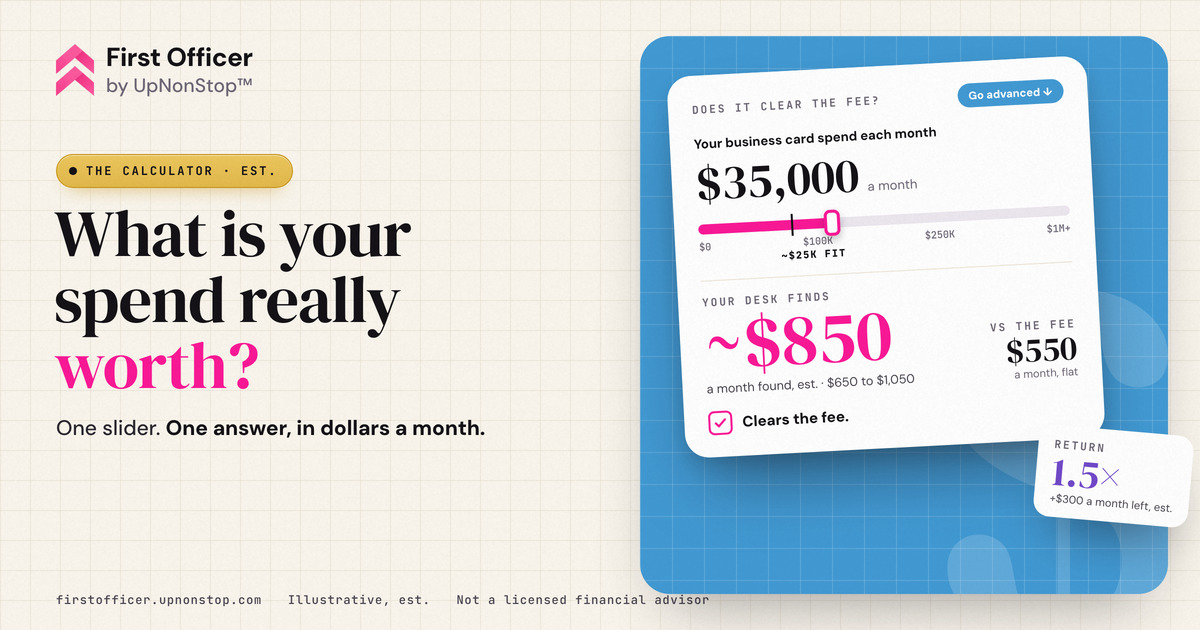
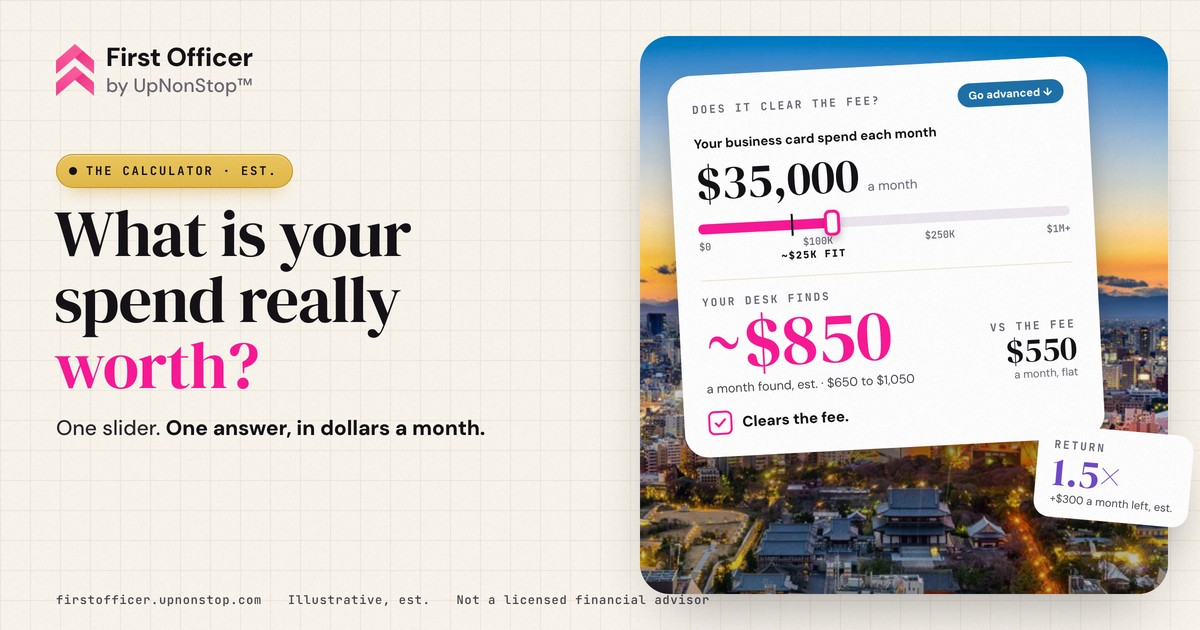
Calculator link preview: the slider card over Tokyo at dusk, not a flat blue block
Ohad: the blue background in the calculator preview looked bad. The card's
right side was a flat #429AD4 field with a white grid and a giant "$". It
is now the site's own Tokyo-at-dusk photo (img/tokyo.jpg) in the same
rounded frame, the way the Product card sits on its photo, with a soft
shade at the foot. The calculator card, the Return chip and every word
stay as they were; "Go advanced" uses the site's current button blue
(#1E70AA). Edited on the Link Preview canvas and exported at 1200x630
(158 KB). calculator.html points at og/calculator.jpg?v=2 so platforms
fetch the new image instead of a cached one.

Claude-Session: https://claude.ai/code/session_011MWAFeWdP6UkK35f7g2iDX

diff --git a/calculator.html b/calculator.html
@@ -13,7 +13,7 @@
 <link rel="stylesheet" href="recovered/modes-pages31.css">
 <link rel="stylesheet" href="recovered/calc.css">
 <link rel="stylesheet" href="assets/fo-pages2.css"><noscript><style>.reveal{opacity:1!important;transform:none!important}</style></noscript><noscript><style id="fo-static-ns">.fo-static{position:static!important;width:auto!important;height:auto!important;margin:0!important;overflow:visible!important;clip:auto!important;clip-path:none!important;white-space:normal!important;display:block!important;padding:14px 20px!important;font:500 15px/1.6 "DM Sans",system-ui,sans-serif;color:#141216}.fo-static a{display:inline-block;margin:0 16px 6px 0;color:#141216;font-weight:600}</style></noscript><link rel="stylesheet" href="assets/fo-rules.css">
-<link rel="stylesheet" href="assets/fo-polish.css"><!-- fo-ld --><script type="application/ld+json">{"@context":"https://schema.org","@type":"WebPage","name":"Calculator · What is your spend worth?","url":"https://firstofficer.upnonstop.com/calculator.html","isPartOf":{"@type":"WebSite","name":"First Officer by UpNonStop","url":"https://firstofficer.upnonstop.com/"},"description":"One slider for your monthly business card spend, and what the desk could find against $550 a month, est. Go advanced to set your trade and spend line by line."}</script><script type="application/ld+json">{"@context":"https://schema.org","@type":"BreadcrumbList","itemListElement":[{"@type":"ListItem","position":1,"name":"Home","item":"https://firstofficer.upnonstop.com/"},{"@type":"ListItem","position":2,"name":"Calculator · What is your spend worth?","item":"https://firstofficer.upnonstop.com/calculator.html"}]}</script><!-- /fo-ld --><!-- fo-meta --><link rel="canonical" href="https://firstofficer.upnonstop.com/calculator.html"><meta property="og:type" content="website"><meta property="og:site_name" content="First Officer by UpNonStop"><meta property="og:title" content="Calculator · What is your spend worth? · First Officer"><meta property="og:description" content="One slider for your monthly business card spend, and what the desk could find against $550 a month, est. Go advanced to set your trade and spend line by line."><meta property="og:url" content="https://firstofficer.upnonstop.com/calculator.html"><meta property="og:image" content="https://firstofficer.upnonstop.com/og/calculator.jpg"><meta property="og:image:width" content="1200"><meta property="og:image:height" content="630"><meta property="og:image:type" content="image/jpeg"><meta property="og:image:alt" content="What is your spend really worth? A monthly spend slider and the amount the desk could find against the $550 fee, est."><meta name="twitter:card" content="summary_large_image"><meta name="twitter:title" content="Calculator · What is your spend worth? · First Officer"><meta name="twitter:description" content="One slider for your monthly business card spend, and what the desk could find against $550 a month, est. Go advanced to set your trade and spend line by line."><meta name="twitter:image" content="https://firstofficer.upnonstop.com/og/calculator.jpg"><meta name="twitter:image:alt" content="What is your spend really worth? A monthly spend slider and the amount the desk could find against the $550 fee, est."><!-- /fo-meta --></head>
+<link rel="stylesheet" href="assets/fo-polish.css"><!-- fo-ld --><script type="application/ld+json">{"@context":"https://schema.org","@type":"WebPage","name":"Calculator · What is your spend worth?","url":"https://firstofficer.upnonstop.com/calculator.html","isPartOf":{"@type":"WebSite","name":"First Officer by UpNonStop","url":"https://firstofficer.upnonstop.com/"},"description":"One slider for your monthly business card spend, and what the desk could find against $550 a month, est. Go advanced to set your trade and spend line by line."}</script><script type="application/ld+json">{"@context":"https://schema.org","@type":"BreadcrumbList","itemListElement":[{"@type":"ListItem","position":1,"name":"Home","item":"https://firstofficer.upnonstop.com/"},{"@type":"ListItem","position":2,"name":"Calculator · What is your spend worth?","item":"https://firstofficer.upnonstop.com/calculator.html"}]}</script><!-- /fo-ld --><!-- fo-meta --><link rel="canonical" href="https://firstofficer.upnonstop.com/calculator.html"><meta property="og:type" content="website"><meta property="og:site_name" content="First Officer by UpNonStop"><meta property="og:title" content="Calculator · What is your spend worth? · First Officer"><meta property="og:description" content="One slider for your monthly business card spend, and what the desk could find against $550 a month, est. Go advanced to set your trade and spend line by line."><meta property="og:url" content="https://firstofficer.upnonstop.com/calculator.html"><meta property="og:image" content="https://firstofficer.upnonstop.com/og/calculator.jpg?v=2"><meta property="og:image:width" content="1200"><meta property="og:image:height" content="630"><meta property="og:image:type" content="image/jpeg"><meta property="og:image:alt" content="What is your spend really worth? A monthly spend slider and the amount the desk could find against the $550 fee, est."><meta name="twitter:card" content="summary_large_image"><meta name="twitter:title" content="Calculator · What is your spend worth? · First Officer"><meta name="twitter:description" content="One slider for your monthly business card spend, and what the desk could find against $550 a month, est. Go advanced to set your trade and spend line by line."><meta name="twitter:image" content="https://firstofficer.upnonstop.com/og/calculator.jpg?v=2"><meta name="twitter:image:alt" content="What is your spend really worth? A monthly spend slider and the amount the desk could find against the $550 fee, est."><!-- /fo-meta --></head>
 <body class="modes calc"><div id="fo-header"><!--fo-static--><nav class="fo-static" aria-label="Main" style="position:absolute;width:1px;height:1px;margin:-1px;padding:0;overflow:hidden;clip:rect(0 0 0 0);clip-path:inset(50%);white-space:nowrap;border:0"><a href="index.html">First Officer home</a> <a href="product.html">Product</a> <a href="pricing.html">Pricing</a> <a href="freebies.html">Freebies</a> <a href="calculator.html">Calculator</a> <a href="about.html">About</a> <a href="product.html#how">How it works</a> <a href="trust.html">Trust</a> <a href="industries.html">Industries</a> <a href="field-notes.html">Field Notes</a> <a href="education.html">Lessons</a> <a href="book.html">Get your desk</a> <a href="https://wa.me/16199404040?text=First%20Officer%20Found%20Money%20Call">Text Your First Officer</a></nav><!--/fo-static--></div>
 
 <main id="main">
